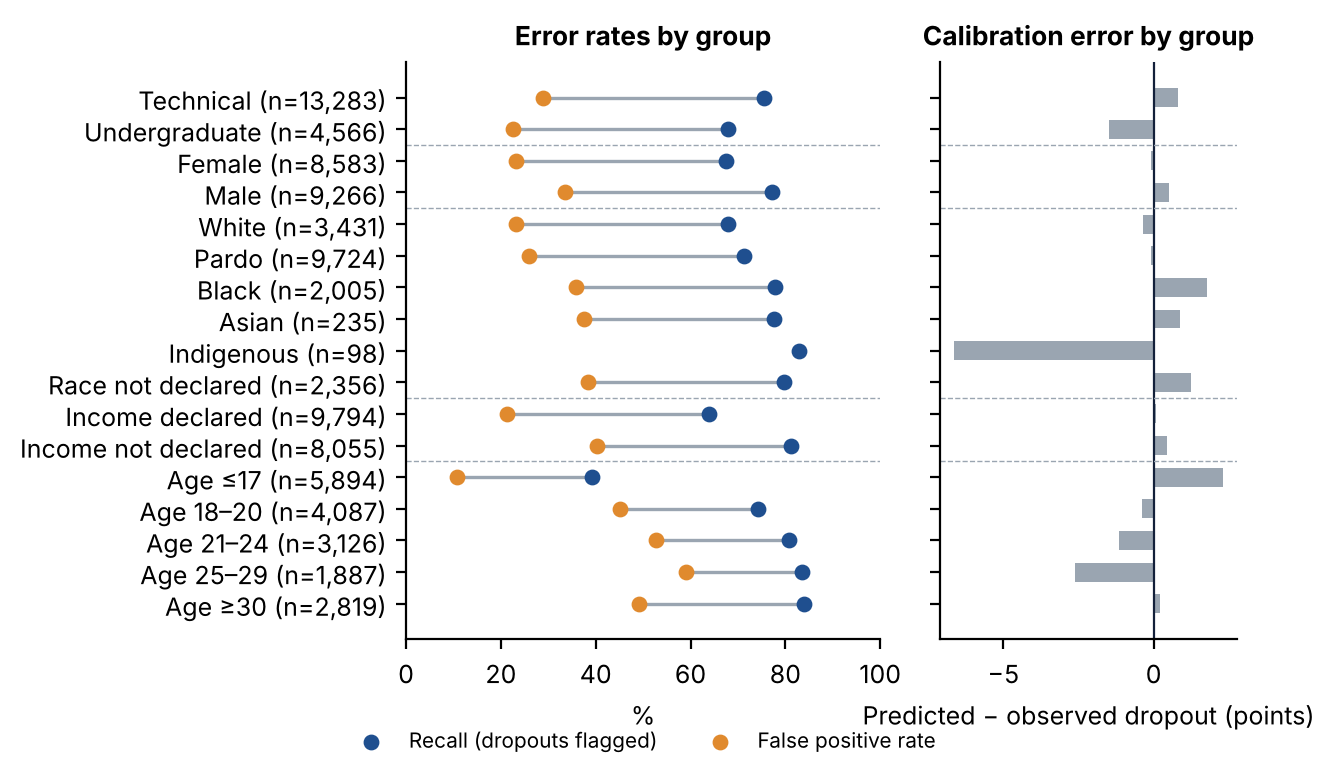
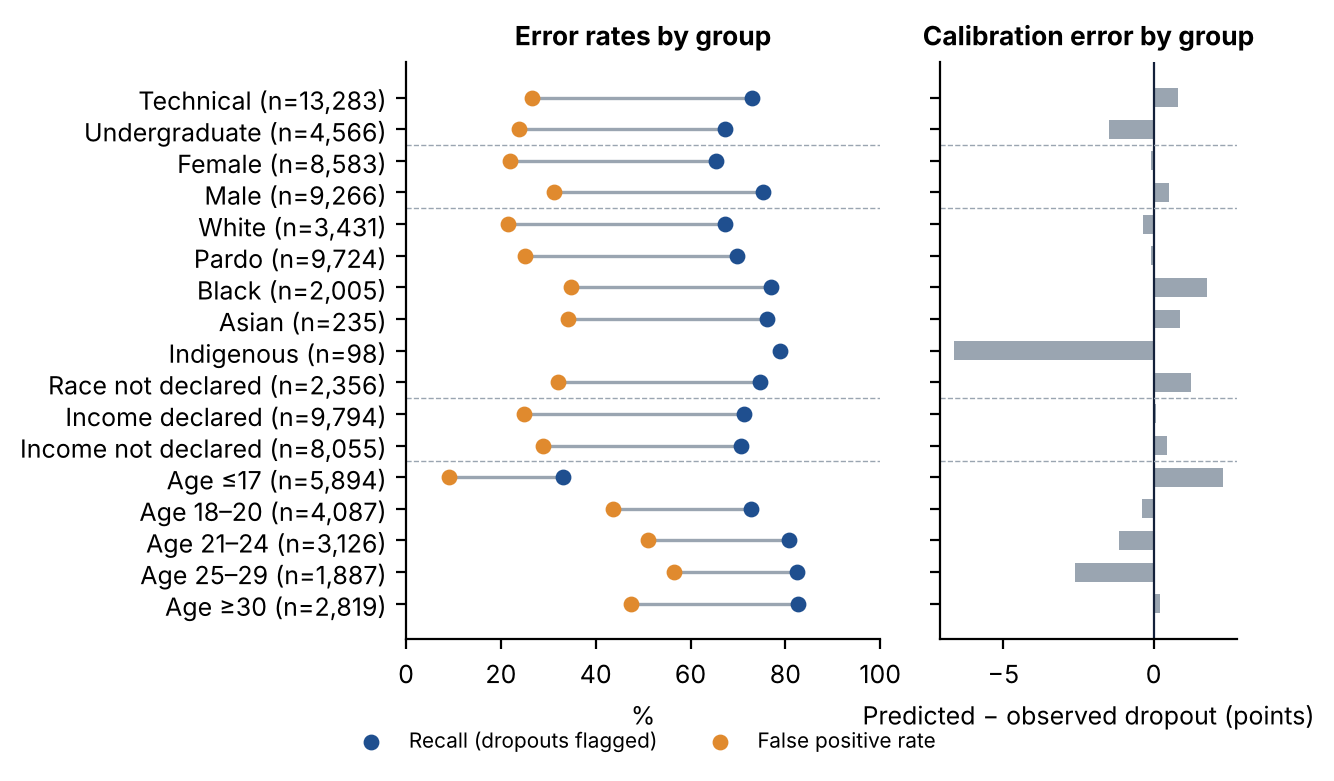
Artigo, Figura 2 e site com os números da regra por renda

diff --git a/docs/index.html b/docs/index.html
@@ -668,7 +668,7 @@
       <tr class="destaque"><td>Gradient boosting (este site)</td><td class="num">0,829</td><td class="num">72,1%</td></tr>
     </table>
     <ul>
-      <li>Nos 30% de casos em que o modelo está mais seguro, ele acerta 85%; em 40% dos alunos, acerta 80% ou mais.</li>
+      <li>Nos 30% de casos em que o modelo está mais seguro, ele acerta 83%; em 40% dos alunos, acerta 80% ou mais.</li>
       <li>As probabilidades estão bem calibradas: o erro médio fica abaixo de 3 pontos para quase todos os grupos.</li>
       <li>Mais dados ainda ajudariam: cada vez que a base de treino dobrou, a AUC subiu cerca de 0,01.</li>
     </ul>
@@ -690,7 +690,7 @@
       <li>Mesmo com a cor/raça, o risco de estudantes indígenas ainda é subestimado em cerca de 7 pontos, e há poucos
         casos para medir com precisão.</li>
       <li>Quem entra com até 17 anos (quase sempre no técnico integrado) evade menos, e o modelo encontra só cerca de
-        40% desses casos de evasão.</li>
+        um terço desses casos de evasão.</li>
       <li>As turmas da base passaram pela pandemia, e a base cobre só os Institutos Federais e as escolas técnicas federais do Nordeste.
         Por isso o site não aceita universidades nem outras instituições: o resultado seria uma extrapolação.</li>
       <li>O uso pretendido é orientar apoio. Usar o risco para negar vaga, bolsa ou qualquer direito seria um uso

diff --git a/artigo/artigo.tex b/artigo/artigo.tex
@@ -41,7 +41,7 @@ Plataforma Nilo Peçanha (2021 a 2023), usando apenas dados disponíveis no ingr
 grupos. O modelo atinge AUC (área sob a curva ROC) de 0,829, contra 0,761 de prever a taxa histórica de evasão do
 curso, e apresenta calibração adequada para a maioria dos grupos, com uma subestimação incerta para estudantes
 indígenas. Além disso, a ausência de declaração de renda e cor/raça traz sinais preditivos mais fortes que os valores
-declarados. Por fim, um modelo treinado só com o Instituto \mbox{Federal} do Piauí (IFPI) não supera
+declarados, e limiares de alerta separados por declaração de renda reduzem de 19 para 4 pontos percentuais a diferença de falsos alarmes entre esses estudantes. Por fim, um modelo treinado só com o Instituto \mbox{Federal} do Piauí (IFPI) não supera
 o regional, e excluir os alunos ainda matriculados após a data prevista de término deixa de fora 20\% da coorte.
 \end{resumo}
 
@@ -132,7 +132,7 @@ Figure~\ref{fig:models} compares the models on the test set. The final model ach
 (0.823--0.835) and a Brier score of 0.165, outperforming both the historical course rate (0.761 and 0.195) and
 logistic regression (0.788 and 0.183). At the final thresholds, it correctly classifies 72.1\% of the test
 enrollments (balanced accuracy 72.3\%), compared with 68.0\% for the historical rate. Among the 10\% of predictions
-with the highest confidence (farthest from the threshold), accuracy reaches 88\%, and it reaches 85\% among the top 30\%. Validation AUC increased from 0.819 with
+with the highest confidence (farthest from the threshold), accuracy reaches 85\%, and it reaches 83\% among the top 30\%. Validation AUC increased from 0.819 with
 half of the training data to 0.831 with the full dataset, suggesting that additional training data may improve performance.
 
 \begin{figure}[!htb]
@@ -164,14 +164,14 @@ points), and including it lowered this error only to 2.1 points.
 
 Figure~\ref{fig:fairness} shows the slicing analysis of the final model. Calibration errors remain within
 $\pm$3 points for most groups, with Indigenous students as the main exception. Error rates also differ: men have
-higher recall (77.1\% vs.\ 67.5\%) but more false positives (33.6\% vs.\ 23.1\%). These differences are consistent with the trade-off between calibration and equal error rates when
+higher recall (75.3\% vs.\ 65.5\%) but more false positives (31.3\% vs.\ 22.0\%). These differences are consistent with the trade-off between calibration and equal error rates when
 base rates differ (Section~2). The largest gap appeared with per-level thresholds between students without and with declared income (dropout rates of 67.4\% and 51.0\%): 40.3\% vs.\ 21.3\% false positives and 81.1\% vs.\ 63.8\% recall. Separate thresholds by income declaration reduced these gaps to 28.9\% vs.\ 24.9\% and 70.6\% vs.\ 71.3\%, while balanced accuracy changed from 72.4\% to 72.3\%. The point estimate indicates an underestimation of 6.6 percentage points for Indigenous students, although the group is small (98 enrollments; 95\% CI $-13.2$ to 0.0). Group-specific recalibration
-and training upweighting did not meet the predefined criterion. For students aged 17 or younger, only 39\% of dropouts are flagged, so the model should not be their sole screening tool.
+and training upweighting did not meet the predefined criterion. For students aged 17 or younger, only 33\% of dropouts are flagged; a separate threshold raised this to 61\% but lowered balanced accuracy by 2.7 points, so the model should not be their sole screening tool.
 
 \begin{figure}[ht]
 \centering
 \includegraphics[width=.58\textwidth]{fig_fairness.pdf}
-\caption{Slicing analysis of the final model on the test set, with per-level thresholds. The false positive rate
+\caption{Slicing analysis of the final model on the test set, with the final thresholds (by level and income declaration). The false positive rate
 of Indigenous students is omitted because the group has fewer than 30 students who completed.}
 \label{fig:fairness}
 \end{figure}
@@ -208,9 +208,8 @@ Regional without institution and campus & 0.810 & $+0.002$ ($-0.006$ to $+0.010$
 The main analysis also excludes retained students, as is common in dropout studies~\cite{oliveira2022}. However,
 they represent 44,723 enrollments (20.0\% of the cohort) and have an average predicted dropout risk of 65\%, close to the average predicted
 risk for dropouts (72\%) and higher than that for graduates (40\%). A second model targeting non-completion on time (dropout or retained)
-achieved similar test performance on its own target (Table~\ref{tab:retained}), with smaller group disparities: the recall gap
-by declared income fell from 17.3 to 11.1 points, the false positive gap between course levels from 6.4 to 2.2, and the Indigenous calibration error from $-6.6$ to $-4.6$. Excluding retained students therefore leaves a substantial part of the
-cohort outside the main dropout analysis, while the alternative target shows smaller disparities across some groups. These differences should be interpreted descriptively, since the two models address distinct targets and classify
+achieved similar test performance on its own target (Table~\ref{tab:retained}), with comparable group disparities: a recall gap by declared income of 3.7 points (0.7 for the dropout model), a false positive gap between course levels of 1.6 (2.9), and an Indigenous calibration error of $-4.6$ ($-6.6$). Excluding retained students therefore leaves a substantial part of the
+cohort outside the main dropout analysis. These differences should be interpreted descriptively, since the two models address distinct targets and classify
 retained students differently; they do not demonstrate improved fairness in dropout prediction. Dropout remained the main target because it is a definitive
 outcome.
 
@@ -225,8 +224,8 @@ outcome.
 \midrule
 Positive rate & 58.4\% & 66.7\% \\
 AUC & 0.829 & 0.826 \\
-Balanced accuracy & 72.4\% & 72.5\% \\
-Recall / false positive rate & 72.8\% / 28.0\% & 73.6\% / 28.6\% \\
+Balanced accuracy & 72.3\% & 72.0\% \\
+Recall / false positive rate & 71.0\% / 26.3\% & 70.2\% / 26.3\% \\
 \bottomrule
 \end{tabular}
 \end{table}
